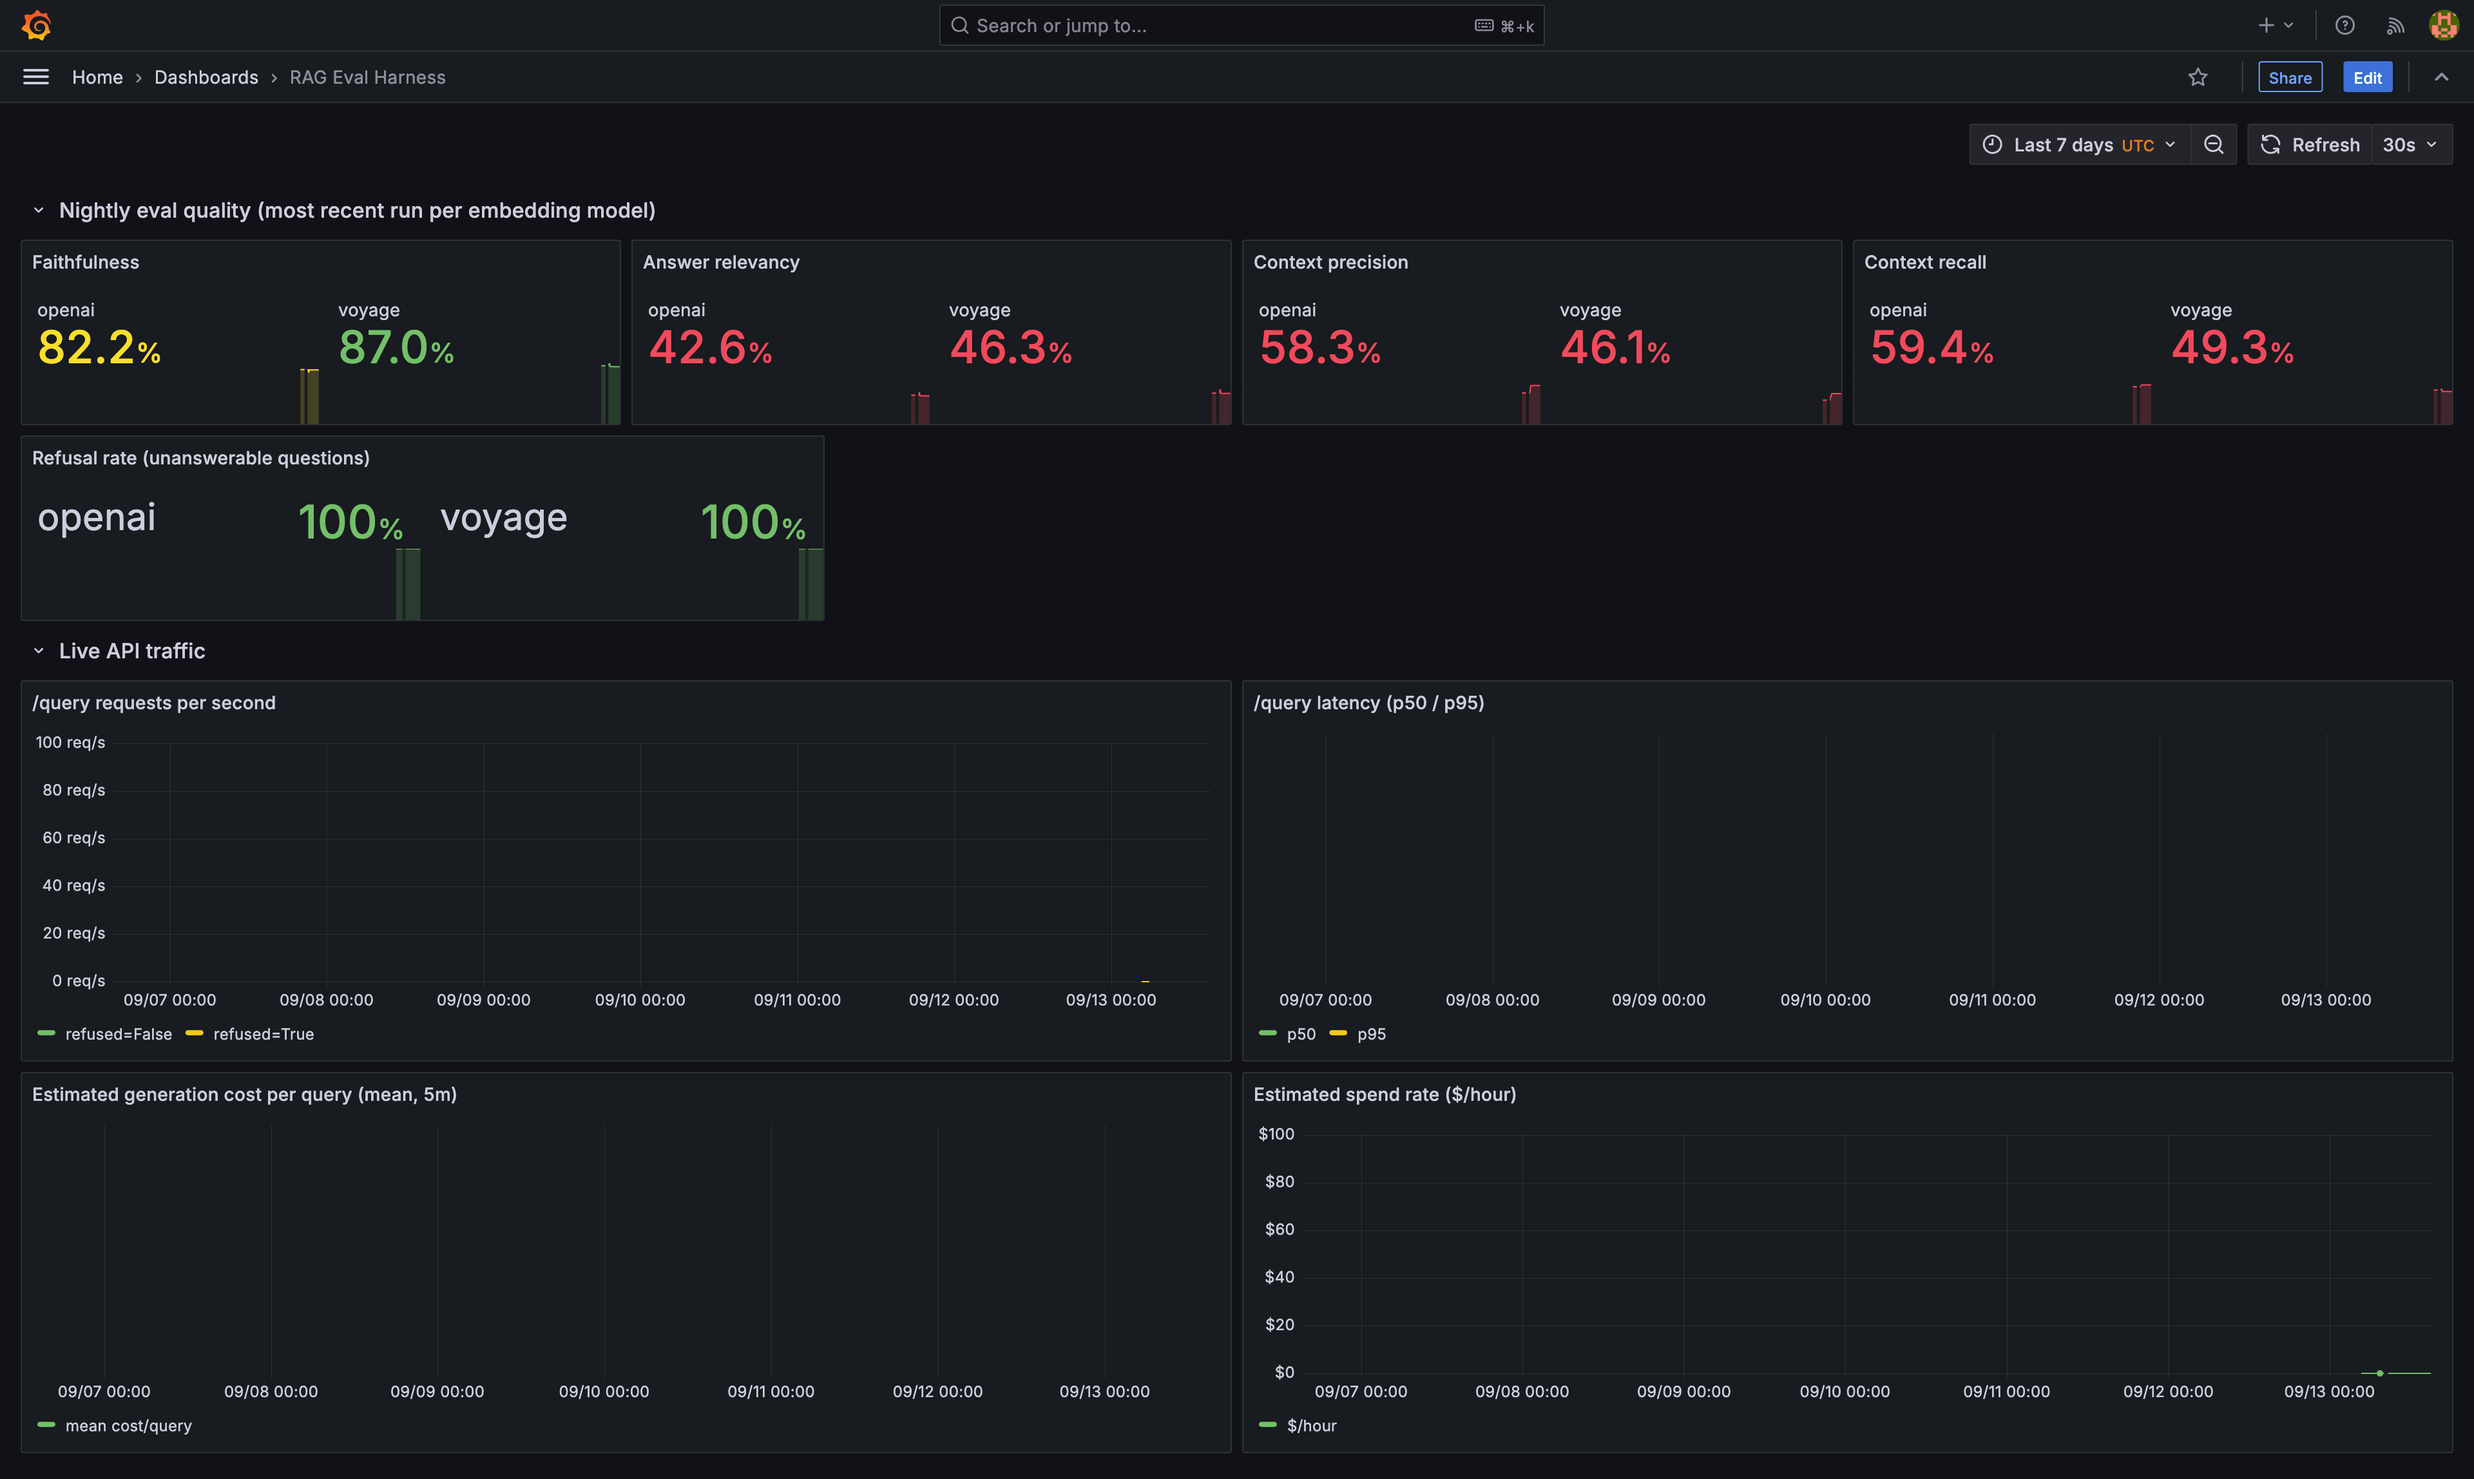
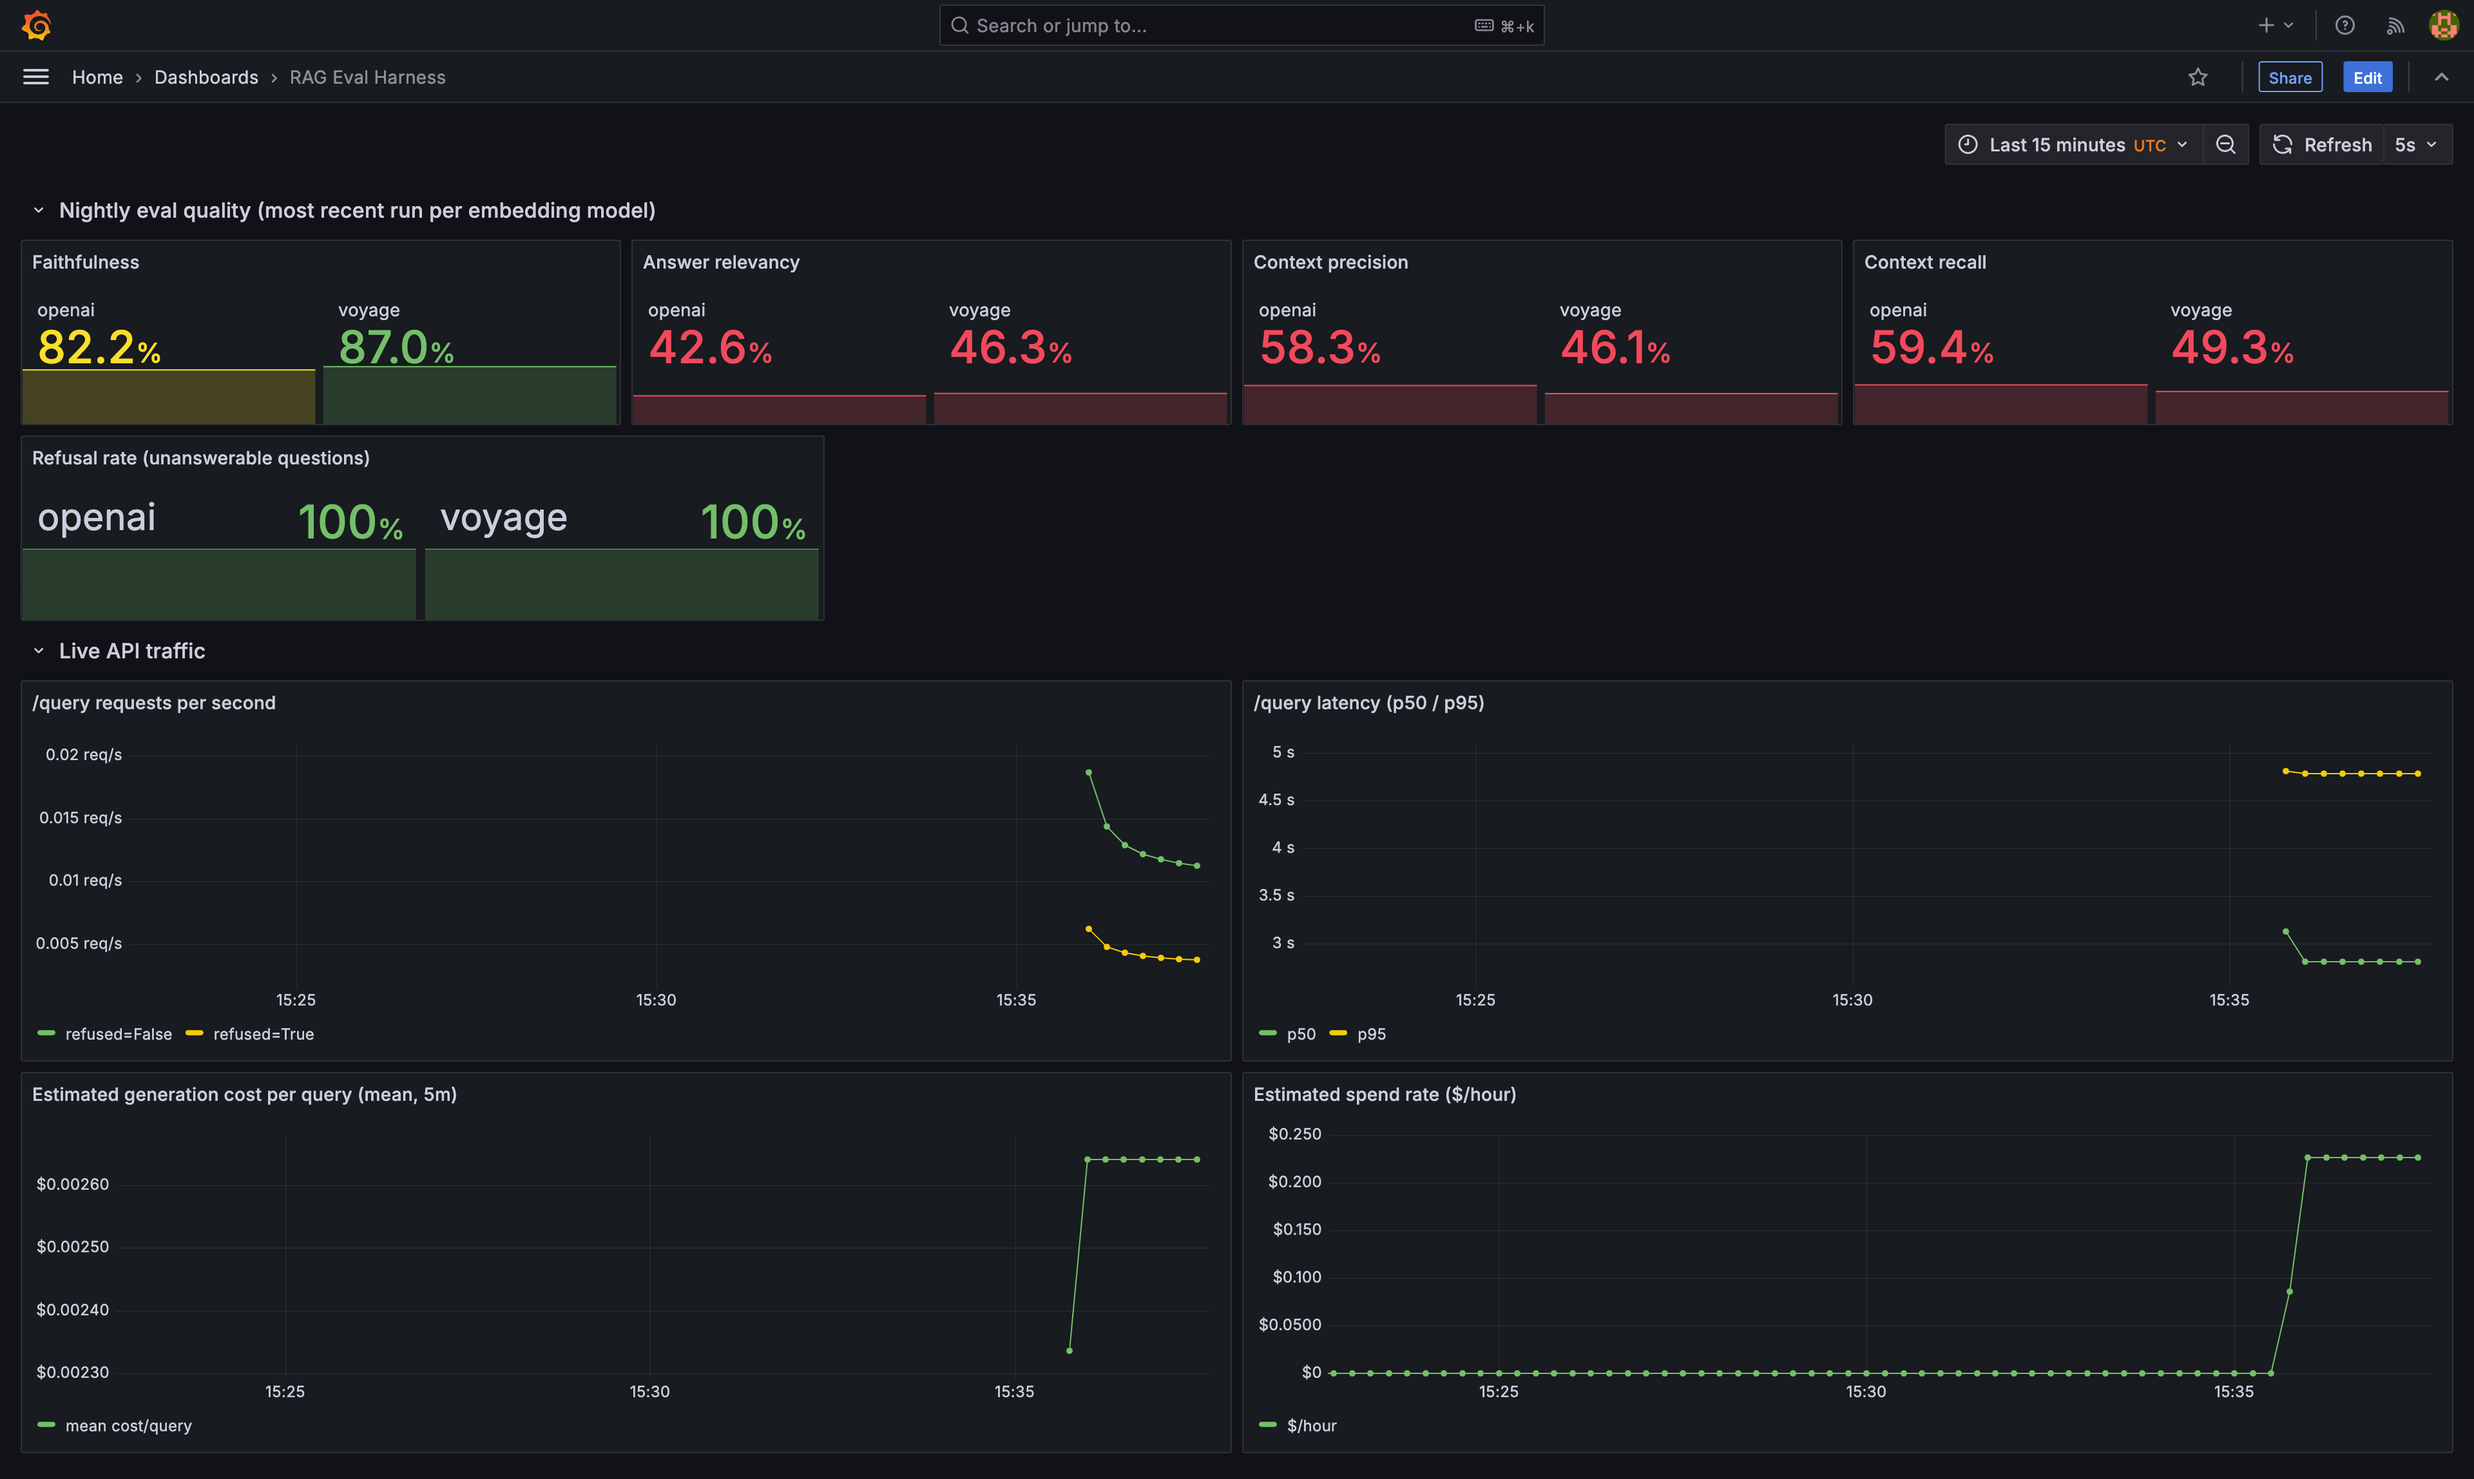
Generate real API traffic so the live dashboard panels aren't flat
The "Live API traffic" row was real (Prometheus really does scrape
the API's /metrics every 15s) but empty in the earlier screenshot,
since the nightly DAG calls the pipeline in-process and never actually
hits the HTTP /query endpoint -- so a screenshot taken at any point
before this would show four flat, misleading-looking graphs.

Sent 7 real /query requests directly at the running API: a mix of
numeric and narrative golden-dataset questions, split across both
embedding models, with one deliberately unanswerable question
included to exercise the refused=true path too. Real cost: $0.0185
(logged in the README). Re-captured the dashboard on a 15-minute
window instead of 7 days so the resulting spike is actually visible
rather than a sliver.

diff --git a/README.md b/README.md
@@ -90,7 +90,7 @@ All from the real, running local stack (not staged/mocked) — a live triggered 
 
 ![Grafana dashboard showing real Ragas scores per embedding model, plus live request rate, latency, and cost panels](docs/screenshots/grafana-dashboard.png)
 
-Per-model Ragas scores (openai vs. voyage): faithfulness 82.2% / 87.0%, answer relevancy 42.6% / 46.3%, context precision 58.3% / 46.1%, context recall 59.4% / 49.3%, refusal rate on unanswerable questions 100% / 100%. The "Live API traffic" row scrapes the FastAPI service's own `/metrics` endpoint every 15s via Prometheus — it's flat here only because no query traffic was sent to the API in this particular 7-day window, not because the panels are fake.
+Per-model Ragas scores (openai vs. voyage): faithfulness 82.2% / 87.0%, answer relevancy 42.6% / 46.3%, context precision 58.3% / 46.1%, context recall 59.4% / 49.3%, refusal rate on unanswerable questions 100% / 100%. The "Live API traffic" row scrapes the FastAPI service's own `/metrics` endpoint every 15s via Prometheus; the visible spike is 7 real `/query` requests (a mix of numeric and narrative golden-dataset questions, split across both embedding models, one deliberately unanswerable one included) sent directly at the running API to prove the panels aren't just wired up but actually move — real cost: $0.0185.
 
 **Airflow — DAG run history**
 
